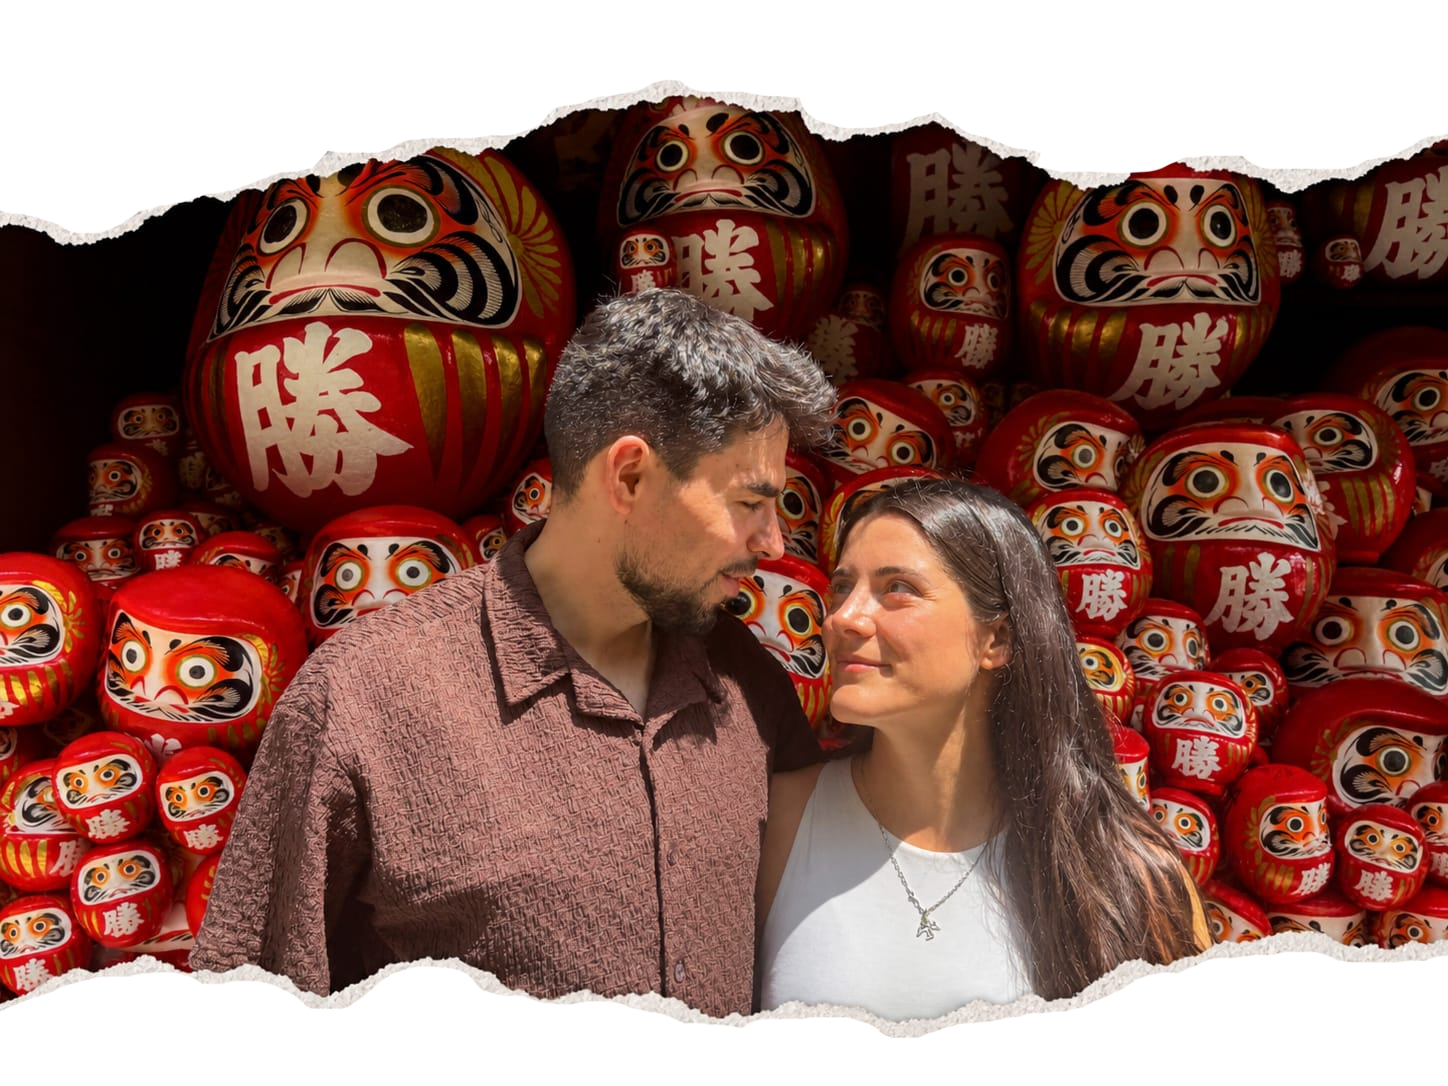
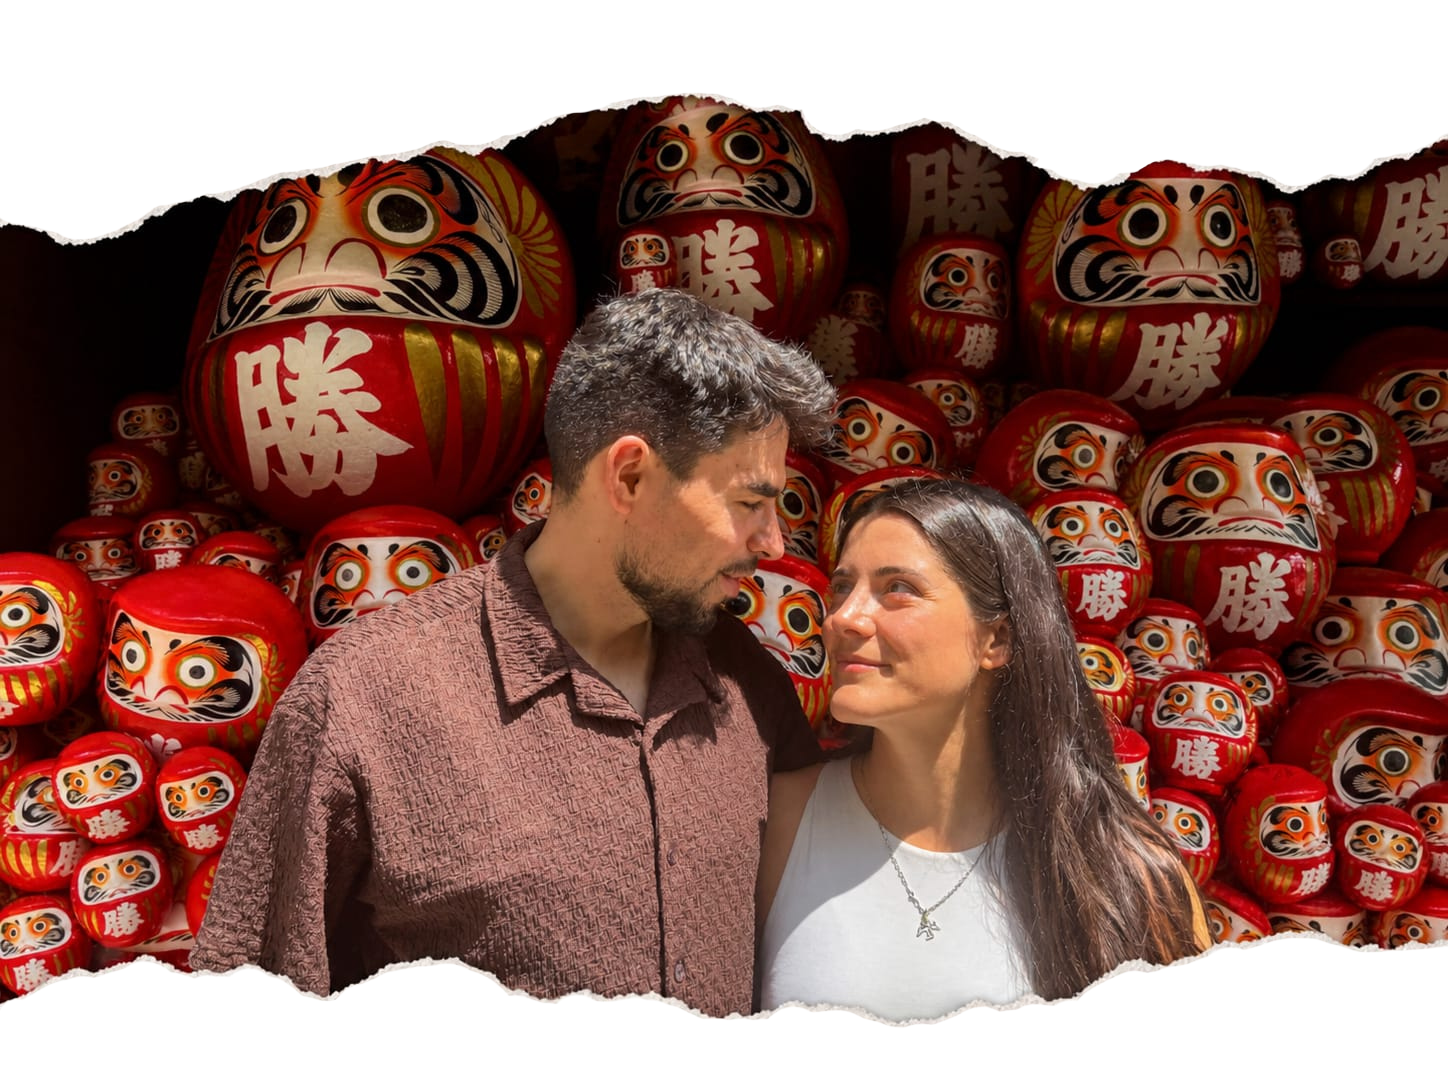
.

diff --git a/index.html b/index.html
@@ -172,7 +172,6 @@
           <div class="slide active"><img src="/img/DSC_1367.JPG" alt=""></div>
           <div class="slide"><img src="/img/DSC_0261.JPG" alt=""></div>
           <div class="slide"><img src="/img/IMG-20260518-WA0008.jpg" alt=""></div>
-          <div class="slide"><img src="/img/IMG-20260726-WA0270.jpg" alt=""></div>
           <div class="slide"><img src="/img/DSC_1467.JPG" alt=""></div>
         </div>
         <button class="arrow right" aria-label="Siguiente">›</button>

diff --git a/src/countdown.css b/src/countdown.css
@@ -335,7 +335,7 @@
 #countdown-section .count-title {
   margin-bottom: 1.25rem;
   color: #A50E1D;
-  font-family: 'Alex Brush', cursive;
+  font-family: 'Alex Brush';
   font-size: clamp(2rem, 7vw, 4.2rem);
   line-height: 1;
   font-weight: bold;
